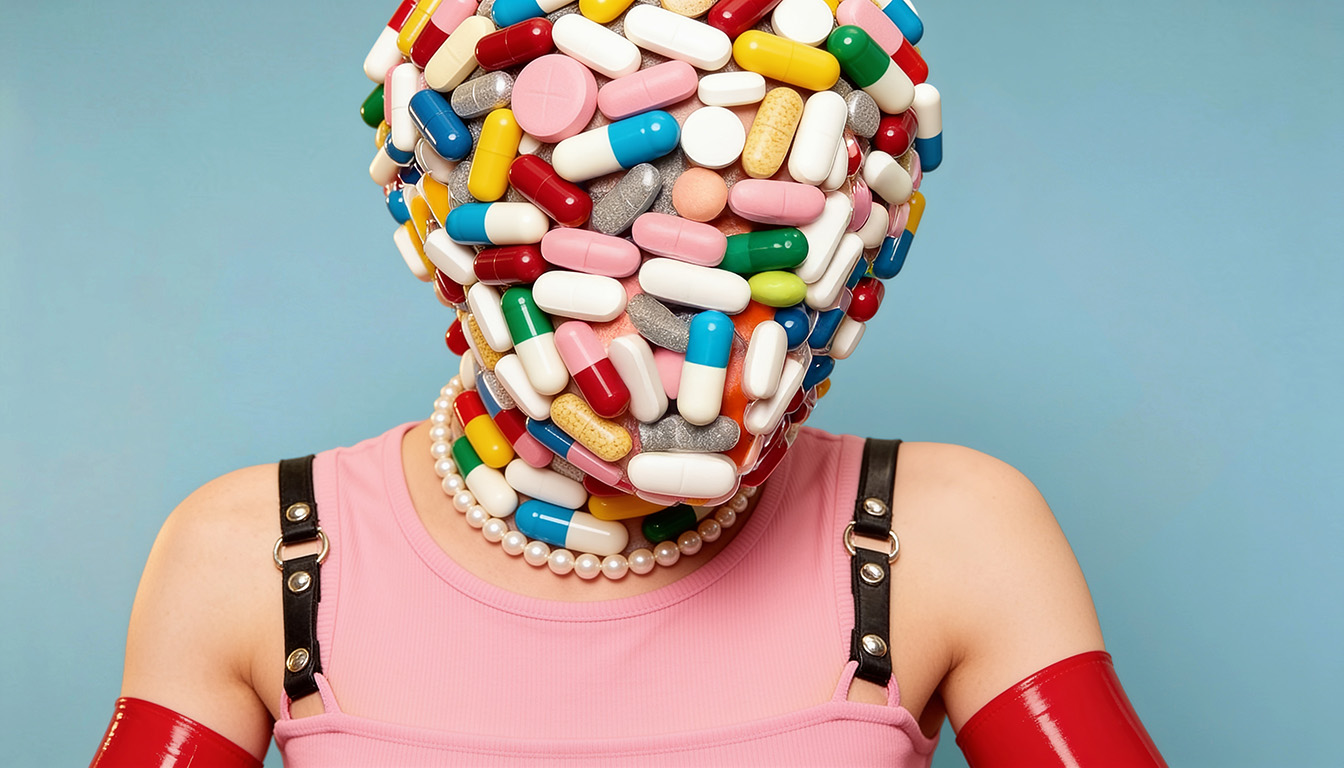
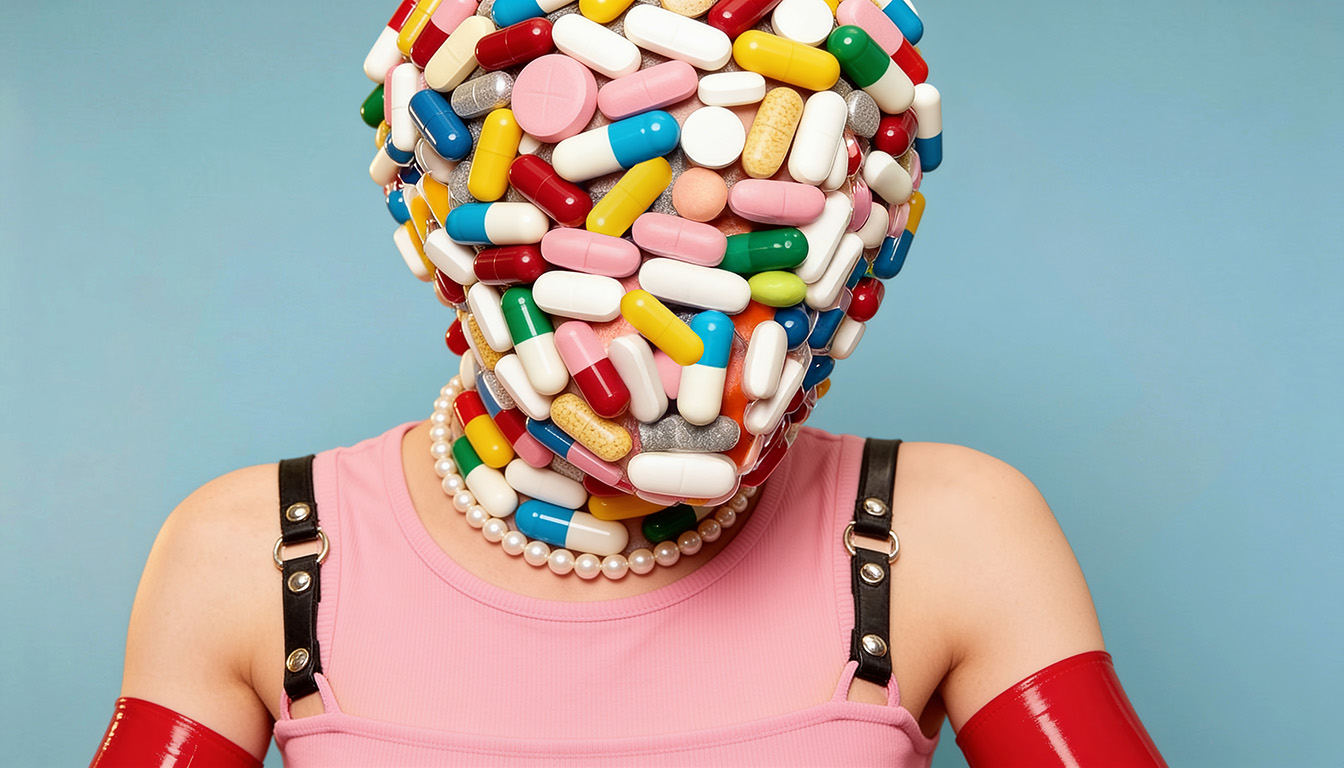
New série: 12 originals replaced with the new versions from the Def folder; unlinked trial page with a less linear layout (rows of 1, 2 and 3)

Changed region(s): [[0.4375, 0.375, 0.5312, 0.5], [0.4375, 0.1875, 0.5, 0.3125]]

diff --git a/serie/essai.html b/serie/essai.html
@@ -1,0 +1,94 @@
+<!DOCTYPE html>
+<html lang="fr">
+<head>
+  <meta charset="UTF-8">
+  <meta name="robots" content="noindex">
+  <meta name="viewport" content="width=device-width, initial-scale=1.0">
+  <title>Laurent Bourdoiseau — New série</title>
+  <link rel="preconnect" href="https://fonts.googleapis.com">
+  <link rel="preconnect" href="https://fonts.gstatic.com" crossorigin>
+  <link href="https://fonts.googleapis.com/css2?family=Barlow:wght@400;600&display=swap" rel="stylesheet">
+  <style>
+    :root{ --bg:#ffffff; --ink:#0a0a0a; --grey:#888; --line:rgba(0,0,0,0.08); --gap:40px; }
+    *{ margin:0; padding:0; box-sizing:border-box; }
+    body{ background:var(--bg); color:var(--ink); font-family:'Barlow', sans-serif; }
+    .menu{ position:fixed; top:calc(1.4rem + env(safe-area-inset-top)); right:calc(2rem + env(safe-area-inset-right)); z-index:200; display:flex; flex-direction:column; align-items:flex-end; gap:.5rem; font-weight:600; font-size:.85rem; letter-spacing:.1em; text-transform:uppercase; }
+    .menu a{ color:var(--ink); text-decoration:none; opacity:.9; background:rgba(255,255,255,.95); padding:.35rem .7rem; box-shadow:0 1px 4px rgba(0,0,0,.12); transition:opacity .2s; }
+    .menu a:hover{ opacity:1; }
+    /* rangées : une image seule en pleine largeur, ou deux images de même forme, à la même hauteur, sans recadrage */
+    .mur{ display:flex; flex-direction:column; gap:var(--gap); padding:calc(9rem + env(safe-area-inset-top)) 2rem 5rem; }
+    .rang{ display:flex; gap:var(--gap); }
+    .rang img{ display:block; min-width:0; width:0; height:auto; cursor:zoom-in; -webkit-user-drag:none; user-select:none; }
+    /* essai : une image seule n'occupe que 62 % de la largeur, calée à gauche (g) ou à droite (d) ; plus d'air autour */
+    .rang.solo{ margin:3rem 0; }
+    .rang.solo img{ flex:none !important; width:62%; }
+    .rang.solo.d{ justify-content:flex-end; }
+    .bas{ display:flex; flex-wrap:wrap; justify-content:flex-end; gap:.6rem; padding:0 2rem 3rem; font-weight:600; font-size:.85rem; letter-spacing:.1em; text-transform:uppercase; }
+    .bas a{ color:var(--ink); text-decoration:none; background:rgba(255,255,255,.95); padding:.35rem .7rem; box-shadow:0 1px 4px rgba(0,0,0,.12); }
+    footer{ padding:1.5rem 2rem 2.5rem; font-size:.65rem; letter-spacing:.1em; text-transform:uppercase; color:var(--grey); }
+    .lightbox{ position:fixed; inset:0; z-index:500; background:rgba(10,10,10,.86); display:none; align-items:center; justify-content:center; padding:6vh 6vw; cursor:zoom-out; }
+    .lightbox.open{ display:flex; }
+    .lightbox img{ max-width:88vw; max-height:88vh; display:block; box-shadow:0 20px 60px rgba(0,0,0,.5); -webkit-user-drag:none; user-select:none; }
+    @media (max-width:768px){
+      :root{ --gap:12px; }
+      .menu{ position:static; padding:calc(1.2rem + env(safe-area-inset-top)) calc(1.5rem + env(safe-area-inset-right)) 0 0; }
+      .mur{ padding:1.6rem 1rem 3rem; }
+      .rang{ flex-direction:column; }
+      .rang img{ width:100% !important; flex:none !important; }
+      .rang.solo{ margin:0; }
+      .bas{ padding:0 1rem 2rem; }
+      footer{ padding:1rem 1rem 2rem; }
+    }
+  </style>
+  <script src="../lang.js?v=2"></script>
+</head>
+<body>
+  <div class="menu">
+    <a href="../index.html?accueil" data-en="← Home">← Accueil</a>
+    <a href="../ia/" data-en="AI">IA</a>
+    <a href="../photos/">Photo</a>
+    <a href="../portfolio/?from=serie">Portfolio</a>
+  </div>
+  <main class="mur" id="mur" aria-label="New série"></main>
+  <div class="bas">
+    <a href="../index.html?accueil" data-en="← Home">← Accueil</a>
+    <a href="../ia/" data-en="AI">IA</a>
+    <a href="../photos/">Photo</a>
+    <a href="../portfolio/?from=serie">Portfolio</a>
+  </div>
+  <footer>© 2026 Laurent Bourdoiseau</footer>
+  <div class="lightbox" id="lb"><img id="lbImg" src="" alt=""></div>
+  <script>
+    // Chaque ligne est une rangée : [fichier, largeur, hauteur]. Ajouter une image = ajouter une entrée ici.
+    const RANGS=[
+      ['g',['serie_01.jpg',1344,768]],
+      [['serie_02.jpg',1344,768],['serie_03.jpg',1344,768]],
+      [['serie_04.jpg',1344,768],['serie_05.jpg',1344,768],['serie_06.jpg',1344,1111]],
+      ['d',['serie_07.jpg',1344,768]],
+      [['serie_08.jpg',1344,768],['serie_09.jpg',1344,768]],
+      [['serie_10.jpg',1344,768],['serie_12.jpg',1344,1111],['serie_13.jpg',1344,1111]],
+      ['g',['serie_15.jpg',1344,1111]],
+      [['serie_16.jpg',1344,1111],['serie_17.jpg',1344,1111]],
+      [['serie_18.jpg',1344,768],['serie_20.jpg',1164,1222],['serie_22.jpg',1344,1222]],
+      ['d',['serie_24.jpg',1344,768]],
+      [['serie_25.jpg',1344,1222],['serie_26.jpg',1344,1222]],
+      [['serie_27.jpg',1344,1222],['serie_28.jpg',1344,768],['serie_30.jpg',1344,768]],
+    ];
+    const mur=document.getElementById('mur'), lb=document.getElementById('lb'), lbImg=document.getElementById('lbImg');
+    RANGS.forEach(r=>{
+      const d=document.createElement('div'); d.className='rang';
+      if(typeof r[0]==='string'){ d.classList.add('solo', r[0]); r=r.slice(1); }
+      r.forEach(([f,l,h])=>{
+        const im=document.createElement('img'); im.src='images/'+f; im.alt=''; im.width=l; im.height=h; im.loading='lazy';
+        im.style.flex=(l/h)+' 1 0';       // même hauteur dans la rangée, sans recadrer
+        im.addEventListener('click',()=>{ lbImg.src=im.src; lb.classList.add('open'); });
+        d.appendChild(im);
+      });
+      mur.appendChild(d);
+    });
+    lb.addEventListener('click',()=>{ lb.classList.remove('open'); lbImg.src=''; });
+    document.addEventListener('keydown',e=>{ if(e.key==='Escape') lb.click(); });
+  </script>
+  <script src="/image-protection.js"></script>
+</body>
+</html>

diff --git a/serie/index.html b/serie/index.html
@@ -57,15 +57,15 @@
     const RANGS=[
       [['serie_01.jpg',1344,768],['serie_02.jpg',1344,768]],
       [['serie_03.jpg',1344,768],['serie_04.jpg',1344,768]],
-      [['serie_05.jpg',1344,768],['serie_06.jpg',1344,768]],
+      [['serie_05.jpg',1344,768],['serie_06.jpg',1344,1111]],
       [['serie_07.jpg',1344,768],['serie_08.jpg',1344,768]],
       [['serie_09.jpg',1344,768],['serie_10.jpg',1344,768]],
-      [['serie_12.jpg',1344,768],['serie_13.jpg',1344,768]],
-      [['serie_15.jpg',1344,768],['serie_16.jpg',1344,768]],
-      [['serie_17.jpg',1344,768],['serie_18.jpg',1344,768]],
-      [['serie_20.jpg',1344,768],['serie_22.jpg',1344,768]],
-      [['serie_24.jpg',1344,768],['serie_25.jpg',1344,768]],
-      [['serie_26.jpg',1344,768],['serie_27.jpg',1344,768]],
+      [['serie_12.jpg',1344,1111],['serie_13.jpg',1344,1111]],
+      [['serie_15.jpg',1344,1111],['serie_16.jpg',1344,1111]],
+      [['serie_17.jpg',1344,1111],['serie_18.jpg',1344,768]],
+      [['serie_20.jpg',1164,1222],['serie_22.jpg',1344,1222]],
+      [['serie_24.jpg',1344,768],['serie_25.jpg',1344,1222]],
+      [['serie_26.jpg',1344,1222],['serie_27.jpg',1344,1222]],
       [['serie_28.jpg',1344,768],['serie_30.jpg',1344,768]],
     ];
     const mur=document.getElementById('mur'), lb=document.getElementById('lb'), lbImg=document.getElementById('lbImg');

diff --git a/NOTES-PROJET.md b/NOTES-PROJET.md
@@ -145,7 +145,7 @@ Deux chantiers liés :
 - Première mise en page (11 images, `macro/images/`), accessible seulement depuis les menus de la page IA (en haut et en bas), sous le nom « Macro IA » (anglais : « AI Macro »). Retirée du menu de l'accueil le 3 novembre 2026.
 
 ### Page New série — `serie/index.html`
-- Créée le 3 novembre 2026 : les 30 images du dossier `Def` du Bureau (série aux visages couverts de gélules), copiées dans `serie/images/serie_01..30.jpg` dans l'ordre du dossier, deux par rangée. Le 3 novembre il en a retiré 6 du dossier (11, 14, 19, 21, 23, 29), retirées aussi du site : 24 images, numéros d'origine gardés (même modèle que la page Macro, tableau `RANGS`). Onglet « New série » (anglais : « New series ») dans les menus de la page IA, après « Macro IA ». Première mise en page, ordre et paires à valider avec lui. Rangées dans le tableau `RANGS`.
+- Créée le 3 novembre 2026 : les 30 images du dossier `Def` du Bureau (série aux visages couverts de gélules), copiées dans `serie/images/serie_01..30.jpg` dans l'ordre du dossier, deux par rangée. Le 3 novembre il en a retiré 6 du dossier (11, 14, 19, 21, 23, 29), retirées aussi du site : 24 images, numéros d'origine gardés. Le 4 novembre, 12 originaux recadrés ou retouchés dans `Def` (06, 07, 12, 13, 15, 16, 17, 20, 22, 25, 26, 27) remplacent les anciens. Proposition de mise en page moins linéaire sur `serie/essai.html` (sans lien, noindex : rangées 1 / 2 / 3, image seule à 62 % calée à gauche puis à droite), en attente de son avis (même modèle que la page Macro, tableau `RANGS`). Onglet « New série » (anglais : « New series ») dans les menus de la page IA, après « Macro IA ». Première mise en page, ordre et paires à valider avec lui. Rangées dans le tableau `RANGS`.
 
 ### Page Photo — `photos/index.html`
 - Les photos sont lues dans le dossier `photo/` via l'API GitHub (47 photos ; la première, `-1.jpg`, a été retirée).
